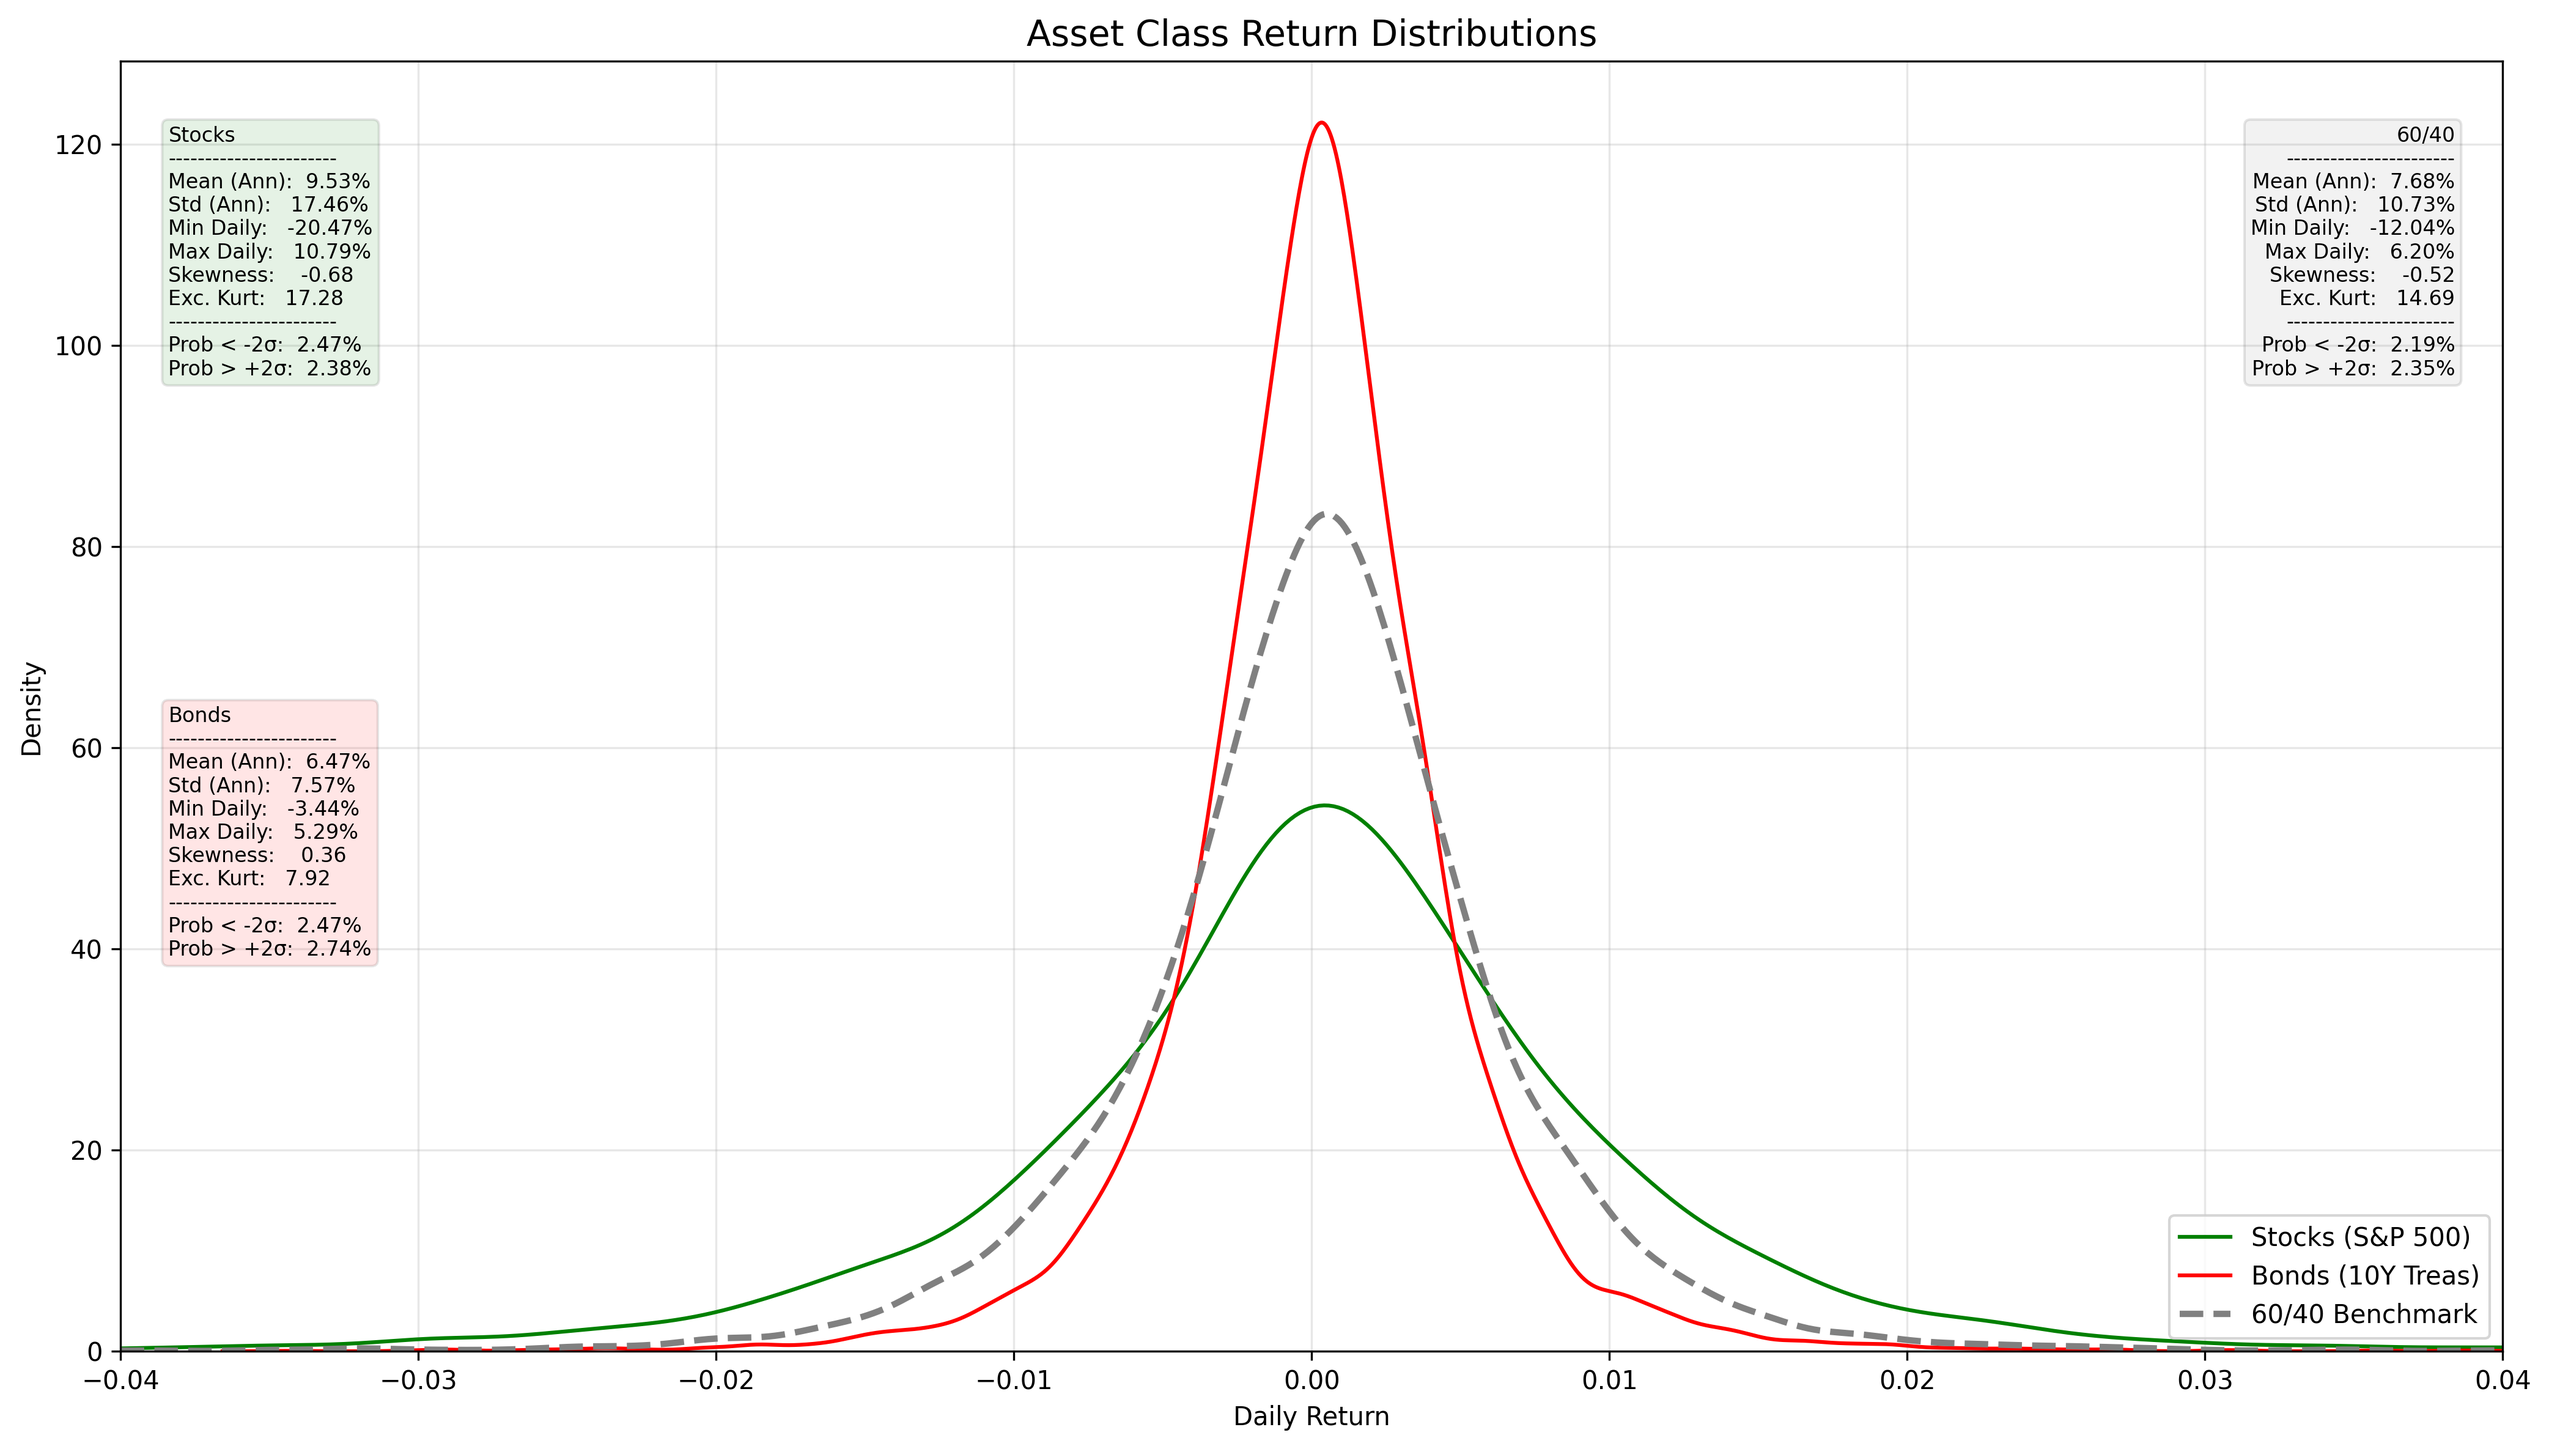
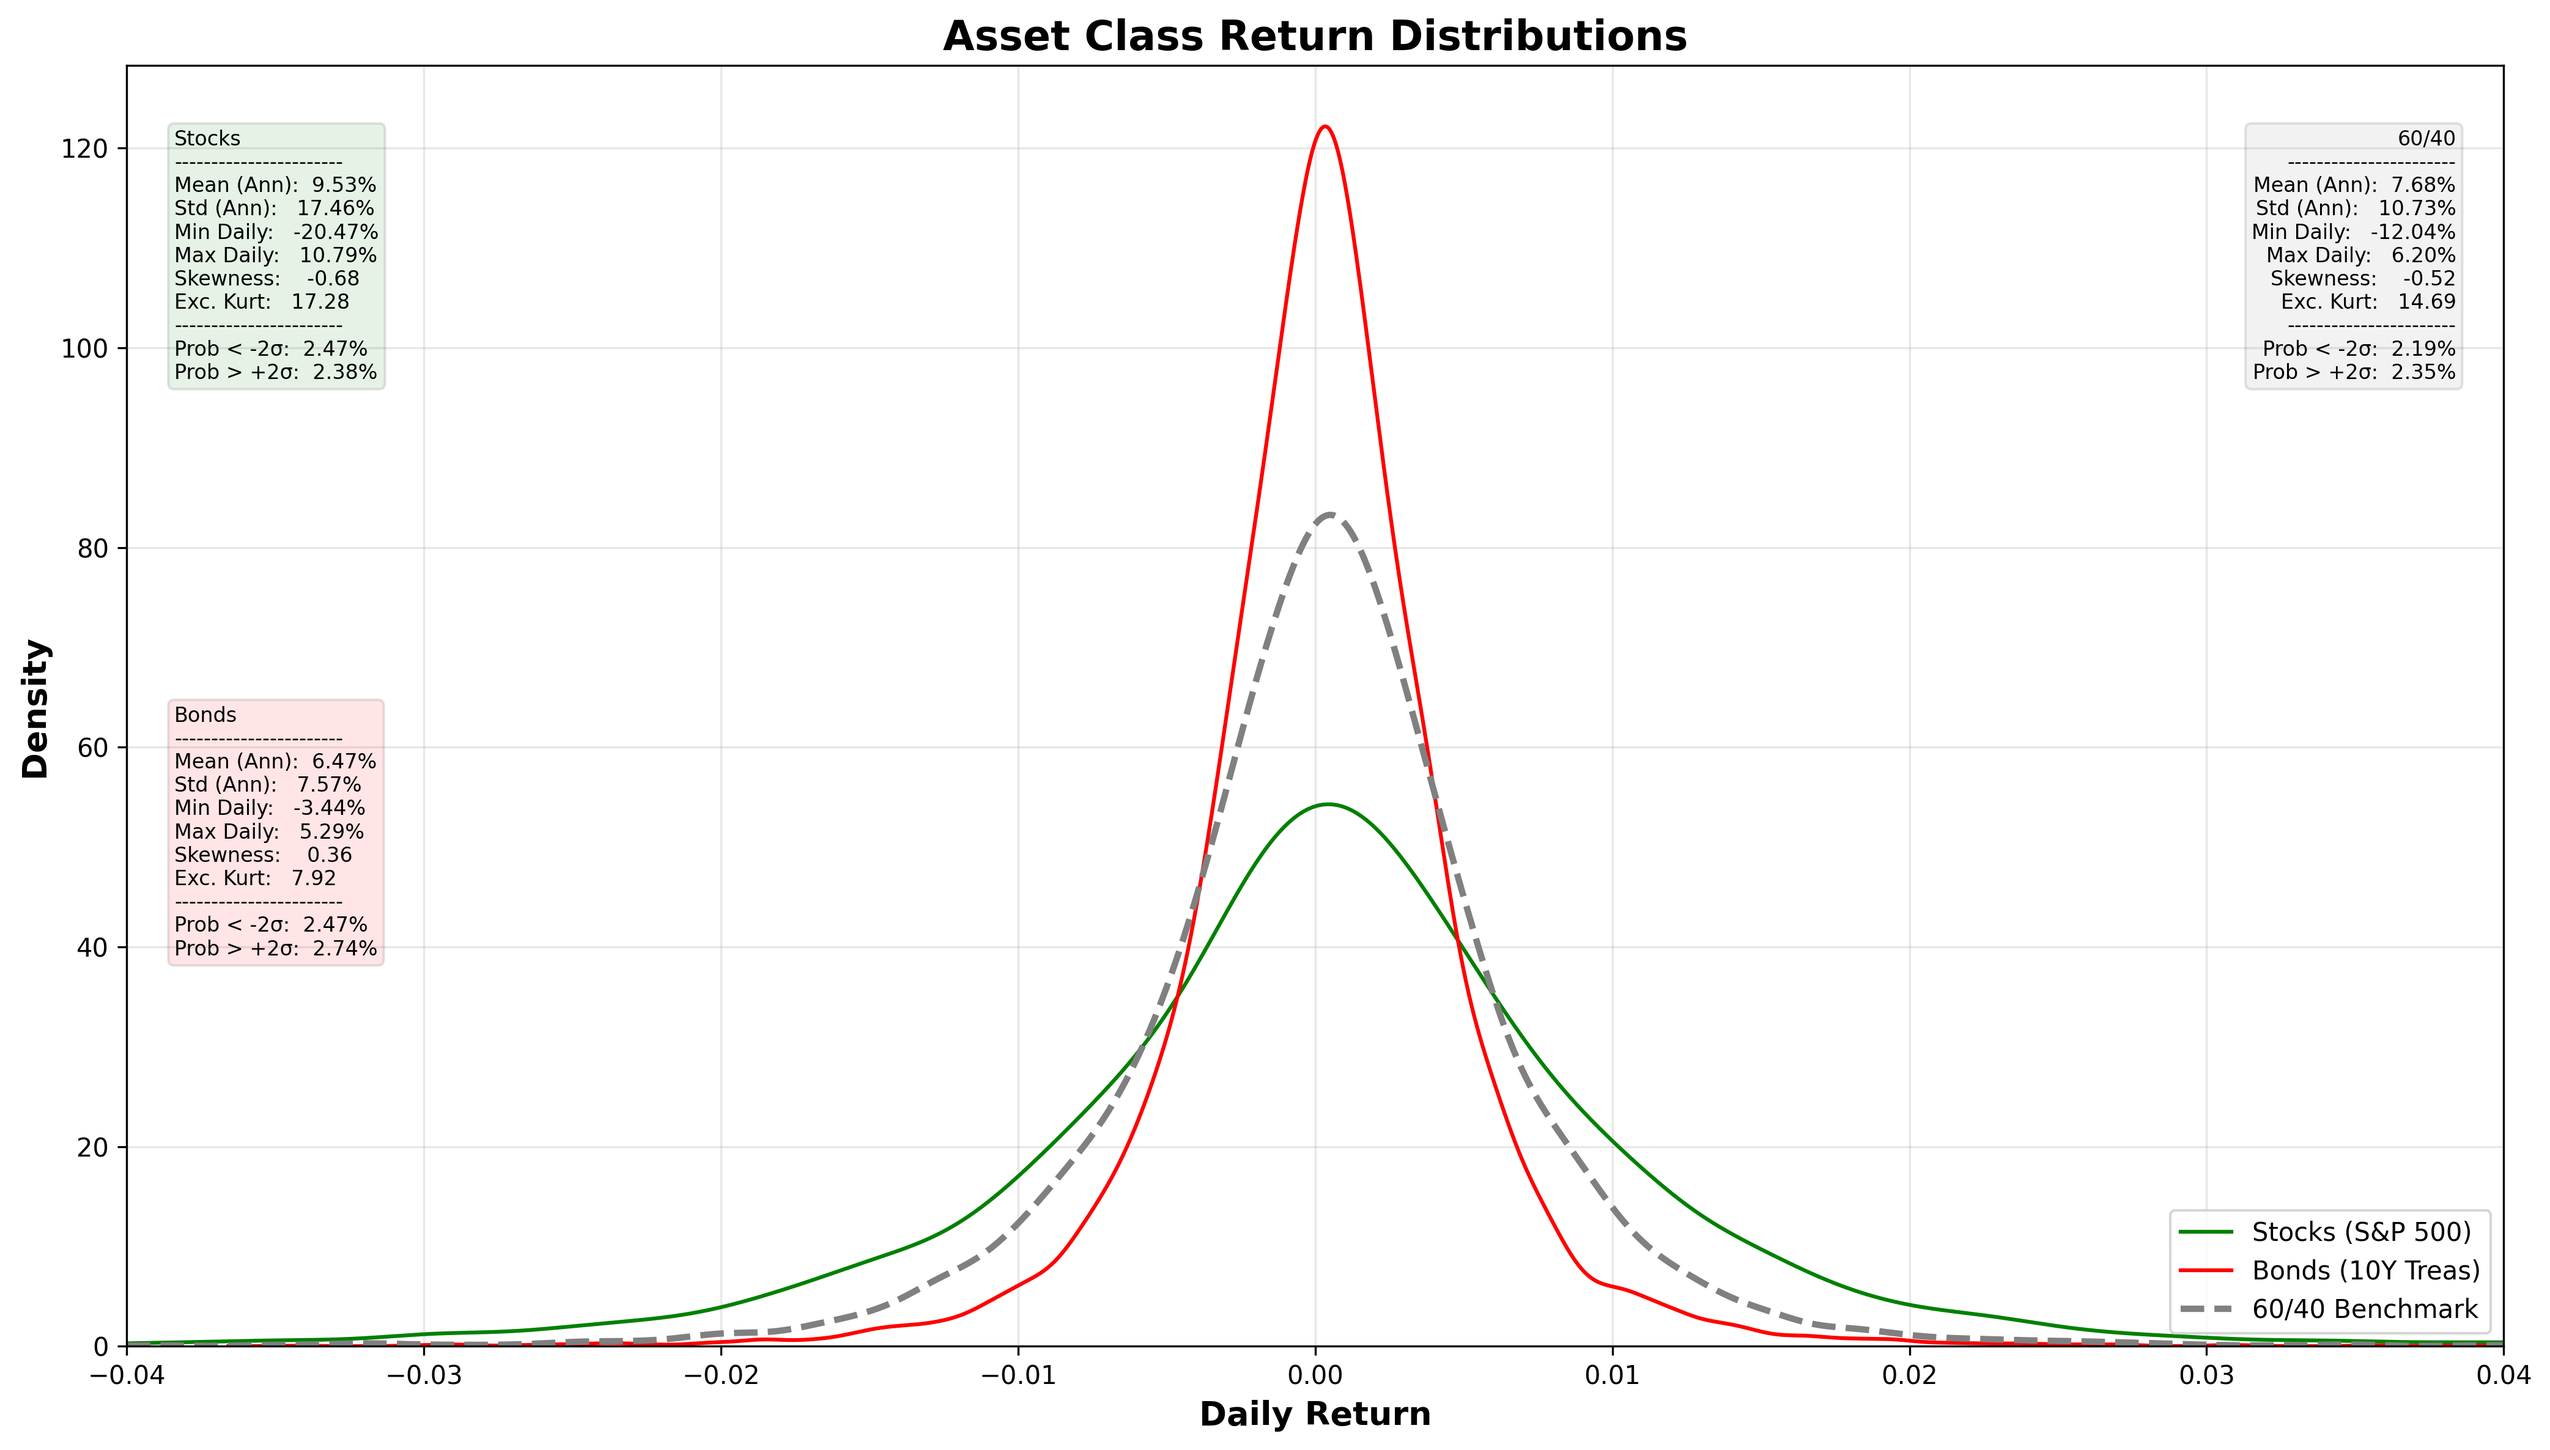
Increased title and label boldness to improve visualization

diff --git a/09_distributional_analysis.py b/09_distributional_analysis.py
@@ -14,9 +14,10 @@ os.makedirs(fig_dir, exist_ok=True)
 
 # 2. Load Data (Using the Master Consolidated File)
 print("Loading Consolidated Data...")
-master_df = pd.read_csv(os.path.join(mod_dir, 'consolidated_portfolio_rebased.csv'), index_col='date', parse_dates=True)
+master_df = pd.read_csv(os.path.join(mod_dir, 'consolidated_portfolio_rebased.csv'), 
+                        index_col='date', parse_dates=True)
 
-# Prepare DataFrame for Analysis (Mapping columns to friendly names)
+# Prepare DataFrame for Analysis
 df = pd.DataFrame(index=master_df.index)
 df['Dynamic'] = master_df['Dynamic_Returns']
 df['60/40']   = master_df['60_40_Returns']
@@ -68,8 +69,9 @@ ax1.text(0.02, 0.95, text_dyn, transform=ax1.transAxes, fontsize=9, verticalalig
 ax1.text(0.98, 0.95, text_6040, transform=ax1.transAxes, fontsize=9, verticalalignment='top', 
          horizontalalignment='right', bbox=dict(boxstyle='round', facecolor='gray', alpha=0.1))
 
-ax1.set_title('Strategy vs Benchmark Distribution', fontsize=14)
-ax1.set_xlabel('Daily Return')
+ax1.set_title('Strategy vs Benchmark Distribution', fontsize=16, fontweight='bold')
+ax1.set_xlabel('Daily Return', fontsize=13, fontweight='bold')
+ax1.set_ylabel('Density', fontsize=13, fontweight='bold')
 ax1.set_xlim(-0.04, 0.04)
 ax1.grid(True, alpha=0.3)
 ax1.legend()
@@ -99,8 +101,9 @@ ax2.text(0.02, 0.50, text_bnd, transform=ax2.transAxes, fontsize=8, verticalalig
 ax2.text(0.98, 0.95, text_bm, transform=ax2.transAxes, fontsize=8, verticalalignment='top', 
          horizontalalignment='right', bbox=dict(boxstyle='round', facecolor='gray', alpha=0.1))
 
-ax2.set_title('Asset Class Return Distributions', fontsize=14)
-ax2.set_xlabel('Daily Return')
+ax2.set_title('Asset Class Return Distributions', fontsize=16, fontweight='bold')
+ax2.set_xlabel('Daily Return', fontsize=13, fontweight='bold')
+ax2.set_ylabel('Density', fontsize=13, fontweight='bold')
 ax2.set_xlim(-0.04, 0.04)
 ax2.grid(True, alpha=0.3)
 ax2.legend()
@@ -114,7 +117,7 @@ print(f"Figure 2 saved to: {fig2_path}")
 # FIGURE 3: Q-Q Plots (Strategy vs Benchmark)
 # ==========================================
 fig3, (ax3a, ax3b) = plt.subplots(1, 2, figsize=(16, 7))
-fig3.suptitle('Normality Test: Dynamic Strategy vs 60/40', fontsize=16)
+fig3.suptitle('Normality Test: Dynamic Strategy vs 60/40', fontsize=16, fontweight='bold')
 
 # Dynamic
 stats.probplot(df['Dynamic'], dist="norm", plot=ax3a)
@@ -123,7 +126,9 @@ ax3a.get_lines()[0].set_markeredgecolor('purple')
 ax3a.get_lines()[0].set_alpha(0.6)
 ax3a.get_lines()[0].set_markersize(2.0)
 ax3a.get_lines()[1].set_color('black')
-ax3a.set_title("Dynamic Strategy")
+ax3a.set_title("Dynamic Strategy", fontsize=14, fontweight='bold')
+ax3a.set_xlabel('Theoretical Quantiles', fontsize=12, fontweight='bold')
+ax3a.set_ylabel('Ordered Values', fontsize=12, fontweight='bold')
 ax3a.grid(True, alpha=0.3)
 
 # 60/40
@@ -133,7 +138,9 @@ ax3b.get_lines()[0].set_markeredgecolor('gray')
 ax3b.get_lines()[0].set_alpha(0.6)
 ax3b.get_lines()[0].set_markersize(2.0)
 ax3b.get_lines()[1].set_color('black')
-ax3b.set_title("60/40 Benchmark")
+ax3b.set_title("60/40 Benchmark", fontsize=14, fontweight='bold')
+ax3b.set_xlabel('Theoretical Quantiles', fontsize=12, fontweight='bold')
+ax3b.set_ylabel('Ordered Values', fontsize=12, fontweight='bold')
 ax3b.grid(True, alpha=0.3)
 
 plt.tight_layout(rect=[0, 0.03, 1, 0.95])
@@ -145,7 +152,7 @@ print(f"Figure 3 saved to: {fig3_path}")
 # FIGURE 4: Q-Q Plots (Stocks vs Bonds)
 # ==========================================
 fig4, (ax4a, ax4b) = plt.subplots(1, 2, figsize=(16, 7))
-fig4.suptitle('Normality Test: Asset Classes', fontsize=16)
+fig4.suptitle('Normality Test: Asset Classes', fontsize=16, fontweight='bold')
 
 # Stocks
 stats.probplot(df['Stocks'], dist="norm", plot=ax4a)
@@ -154,7 +161,9 @@ ax4a.get_lines()[0].set_markeredgecolor('green')
 ax4a.get_lines()[0].set_alpha(0.6)
 ax4a.get_lines()[0].set_markersize(2.0)
 ax4a.get_lines()[1].set_color('black')
-ax4a.set_title("Stocks (S&P 500)")
+ax4a.set_title("Stocks (S&P 500)", fontsize=14, fontweight='bold')
+ax4a.set_xlabel('Theoretical Quantiles', fontsize=12, fontweight='bold')
+ax4a.set_ylabel('Ordered Values', fontsize=12, fontweight='bold')
 ax4a.grid(True, alpha=0.3)
 
 # Bonds
@@ -164,7 +173,9 @@ ax4b.get_lines()[0].set_markeredgecolor('red')
 ax4b.get_lines()[0].set_alpha(0.6)
 ax4b.get_lines()[0].set_markersize(2.0)
 ax4b.get_lines()[1].set_color('black')
-ax4b.set_title("Bonds (10Y Treas)")
+ax4b.set_title("Bonds (10Y Treas)", fontsize=14, fontweight='bold')
+ax4b.set_xlabel('Theoretical Quantiles', fontsize=12, fontweight='bold')
+ax4b.set_ylabel('Ordered Values', fontsize=12, fontweight='bold')
 ax4b.grid(True, alpha=0.3)
 
 plt.tight_layout(rect=[0, 0.03, 1, 0.95])
